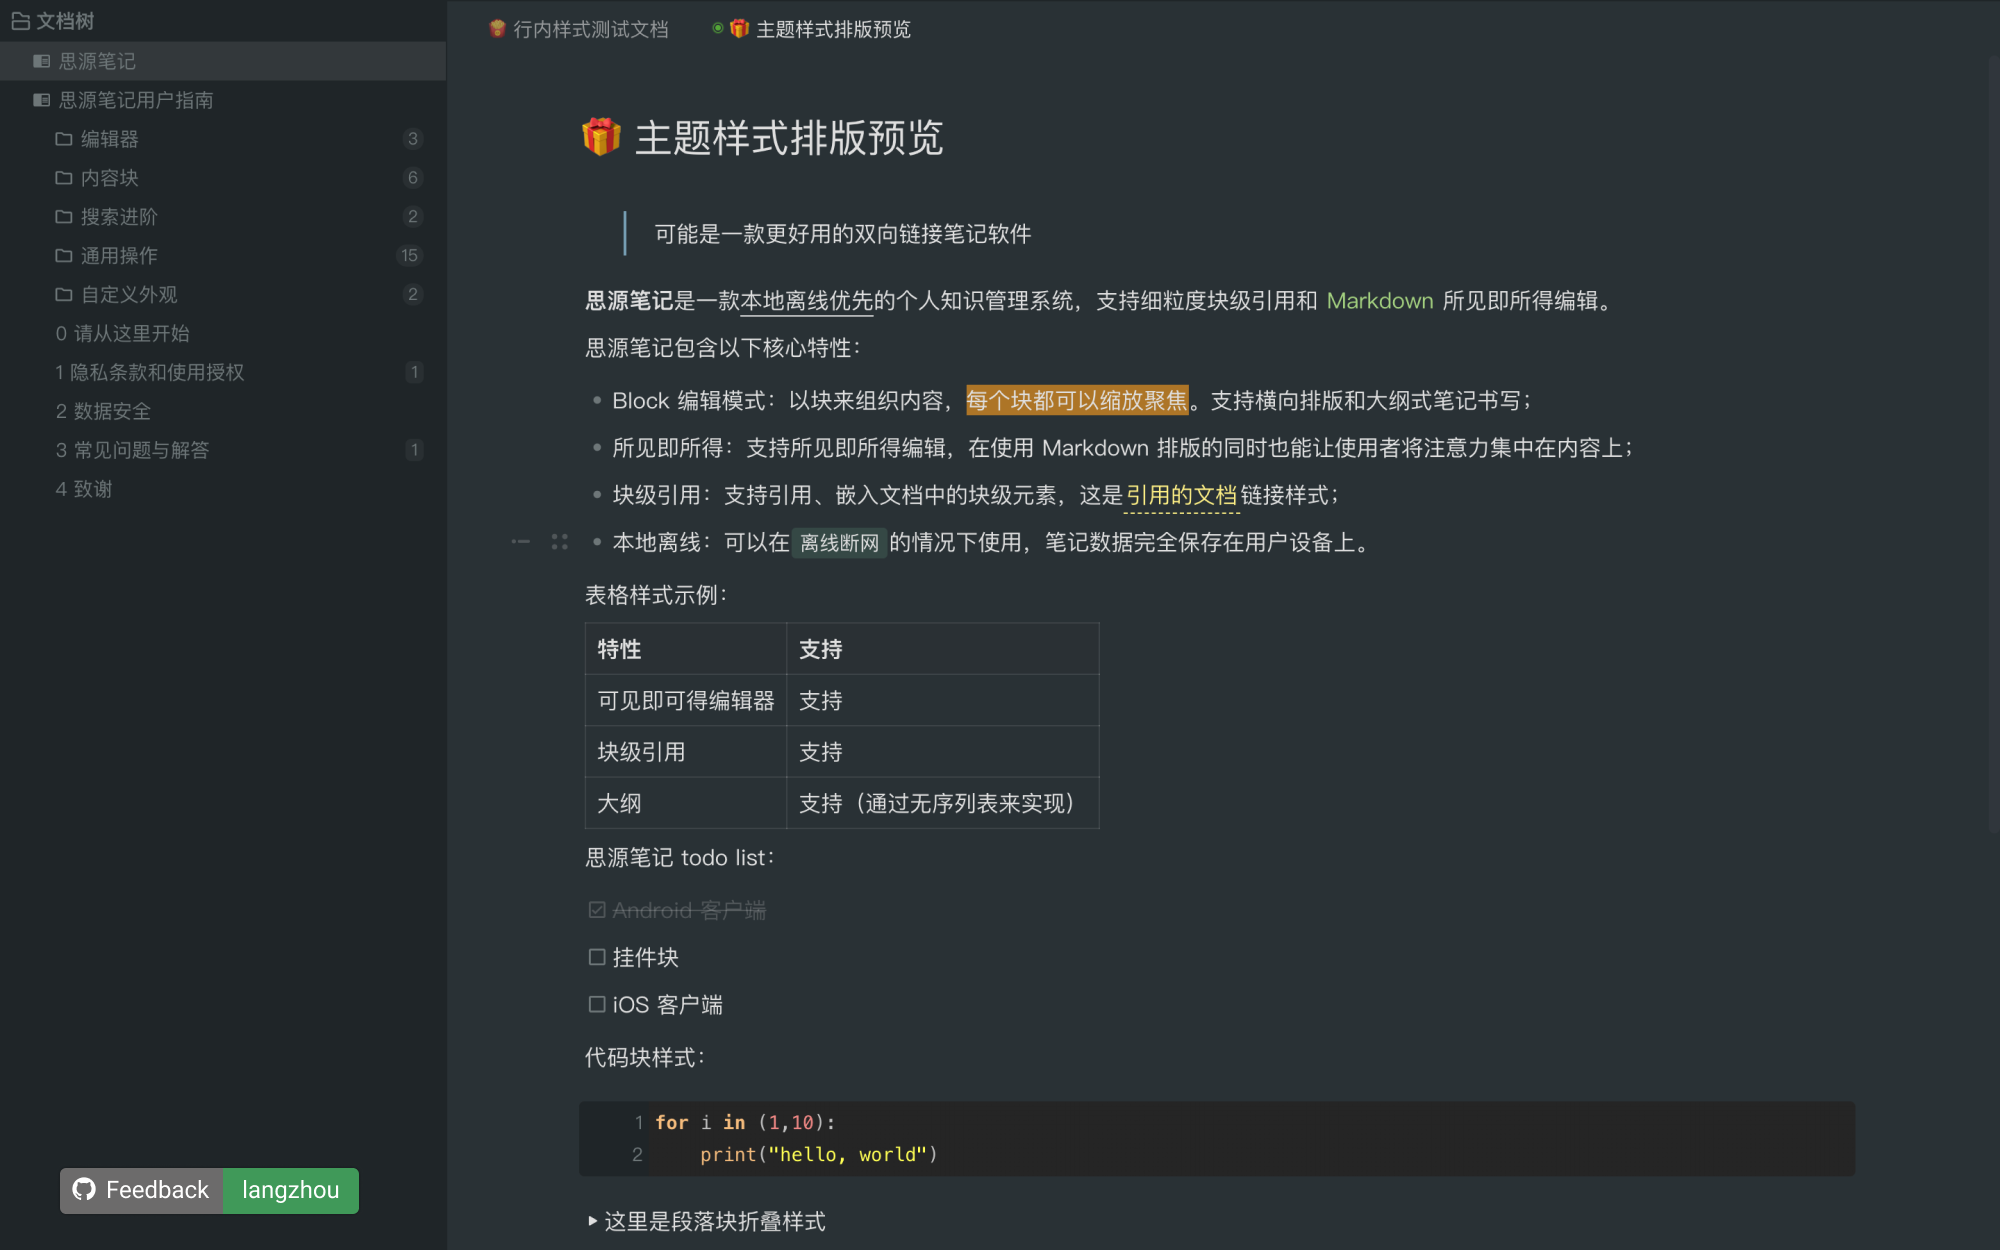
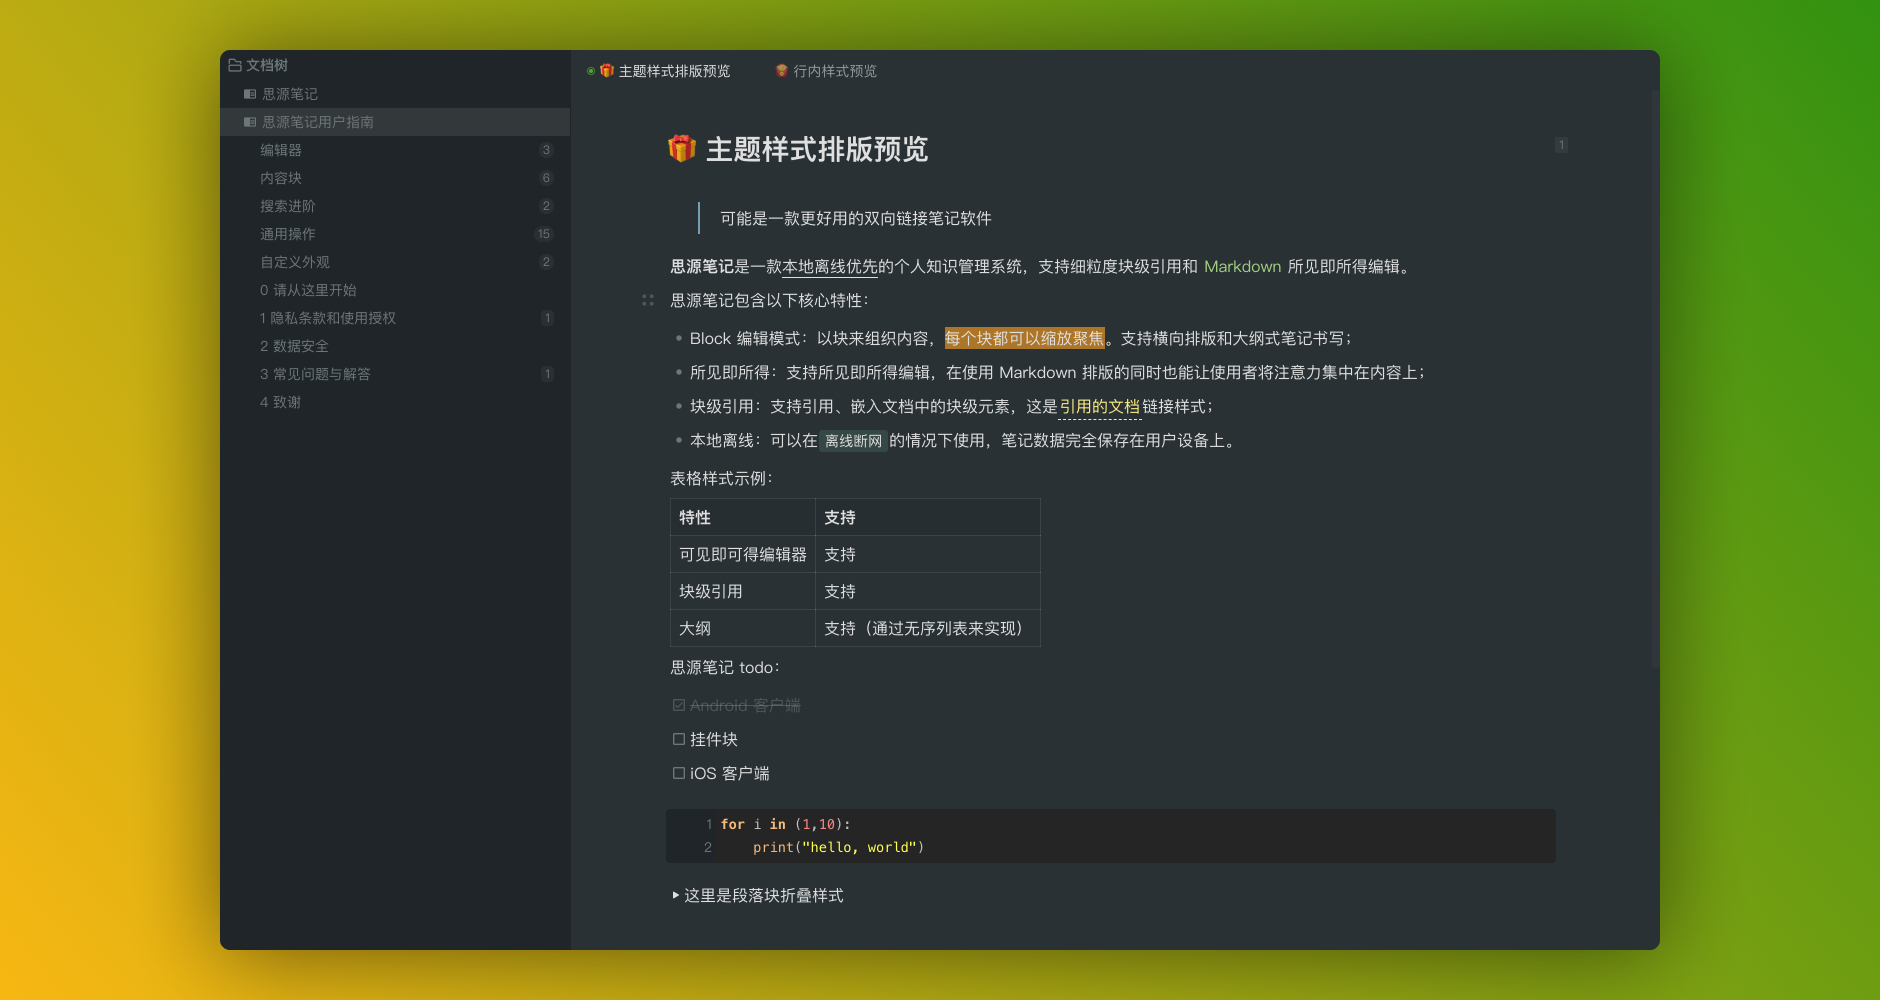
update

diff --git a/theme.css b/theme.css
@@ -132,7 +132,7 @@
     --b3-protyle-inline-mark-background: #b77200;
     --b3-protyle-inline-mark-color: var(--b3-theme-on-background);
     --b3-protyle-inline-tag-color: #6A9FB5;
-    --b3-protyle-inline-blockref-color: #9876aa;
+    --b3-protyle-inline-blockref-color: var(--b3-theme-primary);
 
     /************* added by allen **********************************************************/
 
@@ -312,7 +312,9 @@ span.counter:not(.popover__block){
     border-radius: 2px;
 }
 
-
+.b3-text-filed[readonly]{
+    border: none;
+}
 /******** 文档编辑区 **********/
 
 /*** 页签栏 ****/
@@ -374,7 +376,7 @@ span.counter:not(.popover__block){
     border-radius: 4px;
     border: 1px solid var(--b3-theme-background);
     box-shadow: 0 0 1px 1px var(--b3-protyle-inline-tag-color);
-    top:7px;
+    top:8px;
     left: 4px;
 }
 .layout-tab-bar .item--unupdate.item--focus .item__text::after{
@@ -777,6 +779,16 @@ strong[style]{
 }
 /****** 实验功能结束 */
 
+/* 实验功能：颜色卡片增加padding */
+.sb div[data-node-id][style]{
+    padding: 8px 10px;
+}
+/* 嵌套内的颜色卡片恢复正常padding */
+.sb div[data-node-id][style] div[data-node-id][style] {
+    padding: var(--allen-block-padding);
+}
+/**** 实验功能结束 ***/
+
 /* 段落 p */
 .b3-typography p, .b3-typography [data-node-id], .protyle-wysiwyg p, .protyle-wysiwyg [data-node-id]{
     margin: var(--allen-block-margin);
@@ -893,10 +905,10 @@ strong[style]{
     background-color: var(--b3-theme-background);
 }
 .b3-typography table th, .protyle-wysiwyg table th{
-    background-color: rgba(42,46,50,0.3);
+    background-color: rgba(29,37,40,0.2);
 }
 .b3-typography table tr:hover, .protyle-wysiwyg table tr:hover{
-    background-color: rgba(42,46,50,0.3) !important;
+    background-color: rgba(29,37,40,0.2) !important;
 }
 /*偶数行*/
 .b3-typography table tbody tr:nth-child(2n+1),.protyle-wysiwyg table tbody tr:nth-child(2n+1) {
